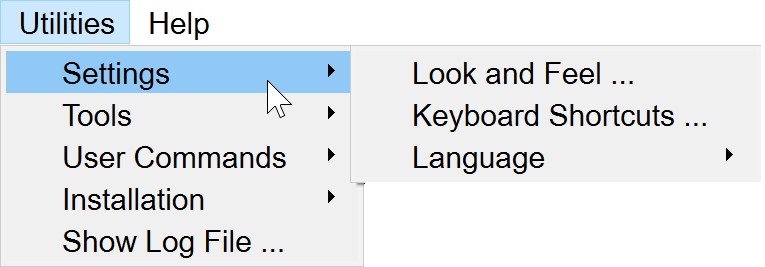
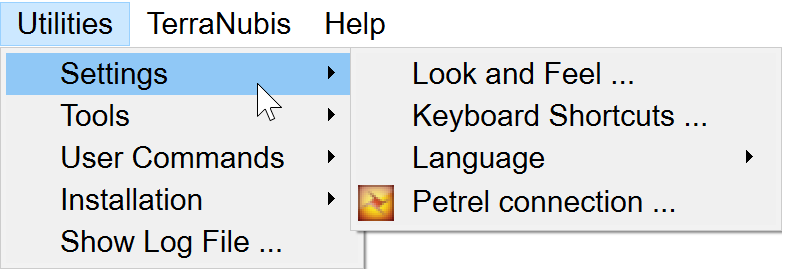
Updated various items in Utilities

diff --git a/od_userdoc/Content/Utilities/Settings/Petrel_Connection.htm b/od_userdoc/Content/Utilities/Settings/Petrel_Connection.htm
@@ -1,0 +1,25 @@
+<?xml version="1.0" encoding="utf-8"?>
+<html xmlns:MadCap="http://www.madcapsoftware.com/Schemas/MadCap.xsd">
+    <head>
+    </head>
+    <body>
+        <h3>9.1.4 Petrel Connection</h3>
+        <p><i>Petrel* connection settings</i> can be set/modified by clicking on PetrelDirect status button <img src="../../Resources/Images/Icons/petrelstate_uninitialized.png" /> (located in the lower right corner of the main OpendTect window).</p>
+        <blockquote>
+            <p>
+                <img src="../../Resources/Images/Utilities/Utilities_settings_petrel_conn.png" style="width: 458px;height: 263px;" class="General_Image" />
+            </p>
+        </blockquote>
+        <p><b>Link status</b>: the icon shows the status of connection to Petrel* and can be clicked on to change it:</p>
+        <p>
+            <img src="../../Resources/Images/Icons/petrelstate_disabled.png" /> - disabled (click on it to Enable connection)</p>
+        <p>
+            <img src="../../Resources/Images/Icons/petrelstate_uninitialized.png" /> - uninitialized (connection is enabled, i.e. will be activated once PetrelDirect is used; click on it to Initialize now or use drop-down menu next to it to Disable connection)</p>
+        <p>
+            <img src="../../Resources/Images/Icons/petrelstate_active.png" /> - active (click on it to Disable connection)</p>
+        <p><b>TCP port to use</b>: TCP port number must be the same as the port number specified on the Petrel* side. The default value of 57375 should work in most cases.</p>
+        <p>
+            <img src="../../Resources/Images/Icons/note.png" /> The default value of TCP port can be changed using DTECT_PETREL_PORT environment variable. In doubt consult your system administrator.</p>
+        <p style="font-size: 10pt;">*is a mark of Schlumberger.</p>
+    </body>
+</html>

diff --git a/od_userdoc/Content/Utilities/Tools/Presentation_Maker_Plugin.htm b/od_userdoc/Content/Utilities/Tools/Presentation_Maker_Plugin.htm
@@ -4,6 +4,11 @@
     </head>
     <body>
         <h3>9.2.4 Presentation Maker Plugin<MadCap:keyword term="Presentation Maker Plugin" /></h3>
+        <blockquote>
+            <p style="font-weight: bold;">
+                <img src="../../Resources/Images/Utilities/untilities_tools_pres_maker.png" style="width: 640px; height: 456px;" class="General_Image" />
+            </p>
+        </blockquote>
         <p style="font-weight: bold;">Introduction</p>
         <p style="font-weight: normal;">Python-pptx is a Python library for creating and updating PowerPoint (.pptx files). The OpendTect 'Presentation Maker' plugin uses this library to create a PowerPoint presentation from scene, window or desktop screenshots.</p>
         <p style="font-weight: bold;">Miniconda3</p>
@@ -16,5 +21,10 @@
             <li style="font-style: normal; font-weight: normal;">Window: image of the selected window will be added. Note that windows on top of the selected window will also be captured in the image.</li>
             <li style="font-style: normal; font-weight: normal;">Desktop: an image of the full desktop will be added.</li>
         </ul>
+        <p style="font-style: normal;font-weight: normal;">The Settings can be adjusted by using the window that pops up on clicking the Settings icon <img src="../../Resources/Images/Icons/settings.png" />:</p>
+        <p style="font-style: normal;font-weight: normal;text-indent: 0.5in;">
+            <img src="../../Resources/Images/Utilities/untilities_tools_pres_maker_settings.png" style="width: 479px; height: 392px;" class="General_Image" />
+        </p>
+        <p style="font-style: normal;font-weight: normal;">&#160;</p>
     </body>
 </html>
